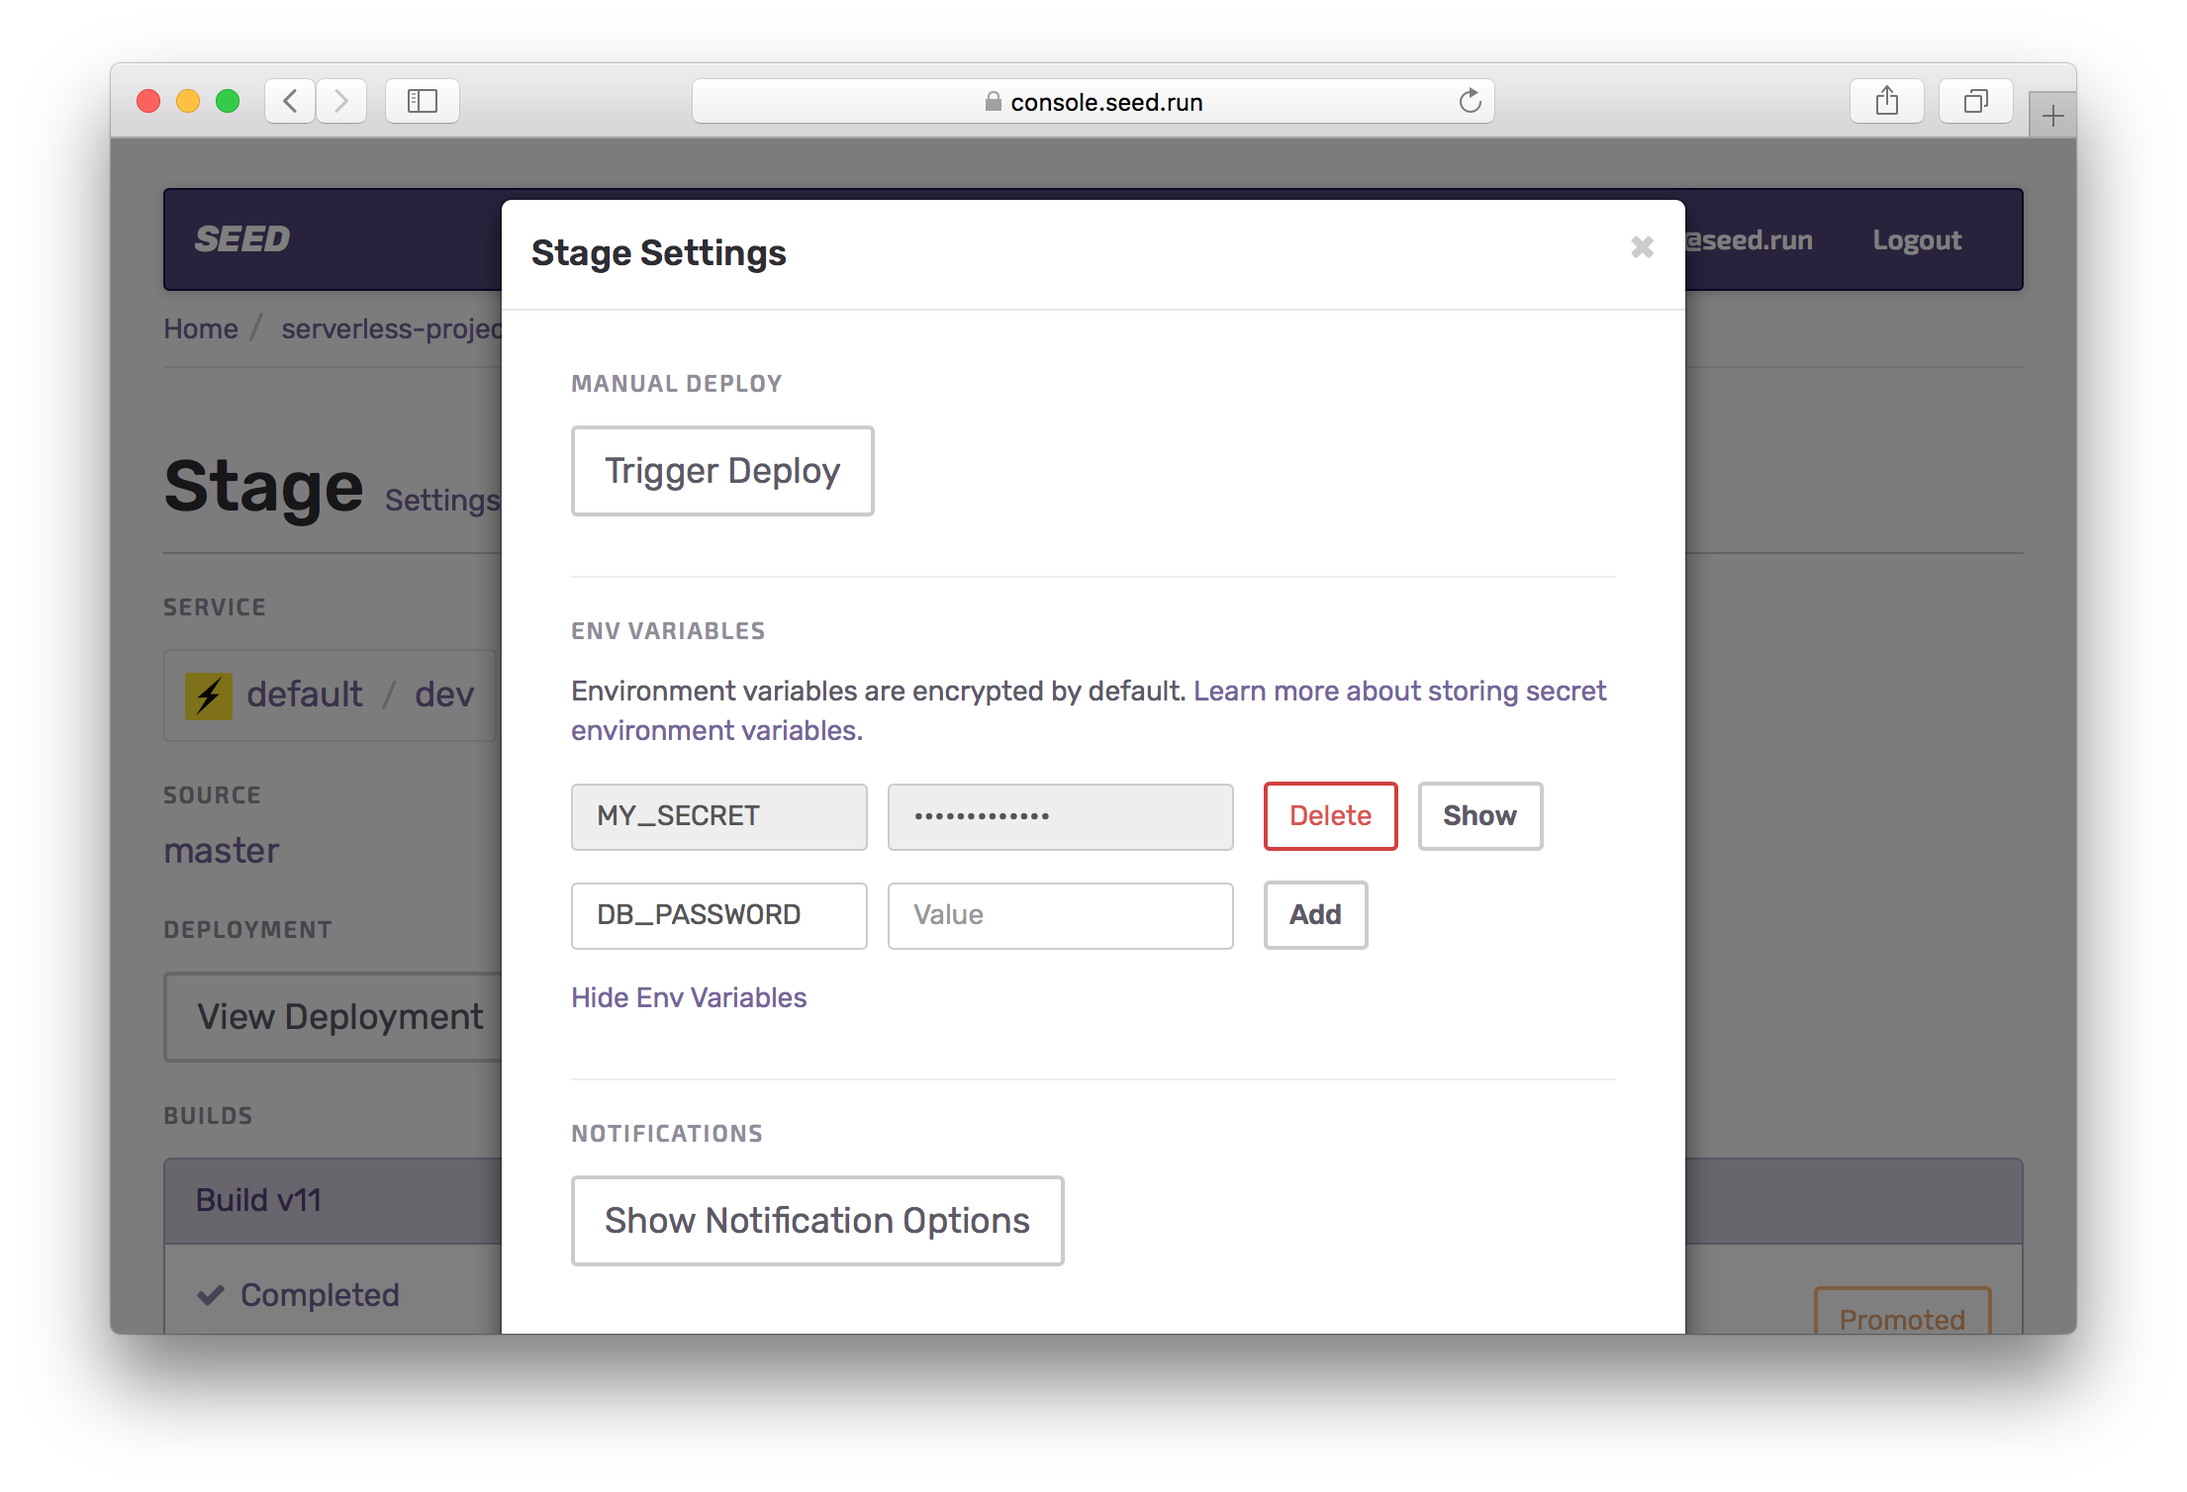
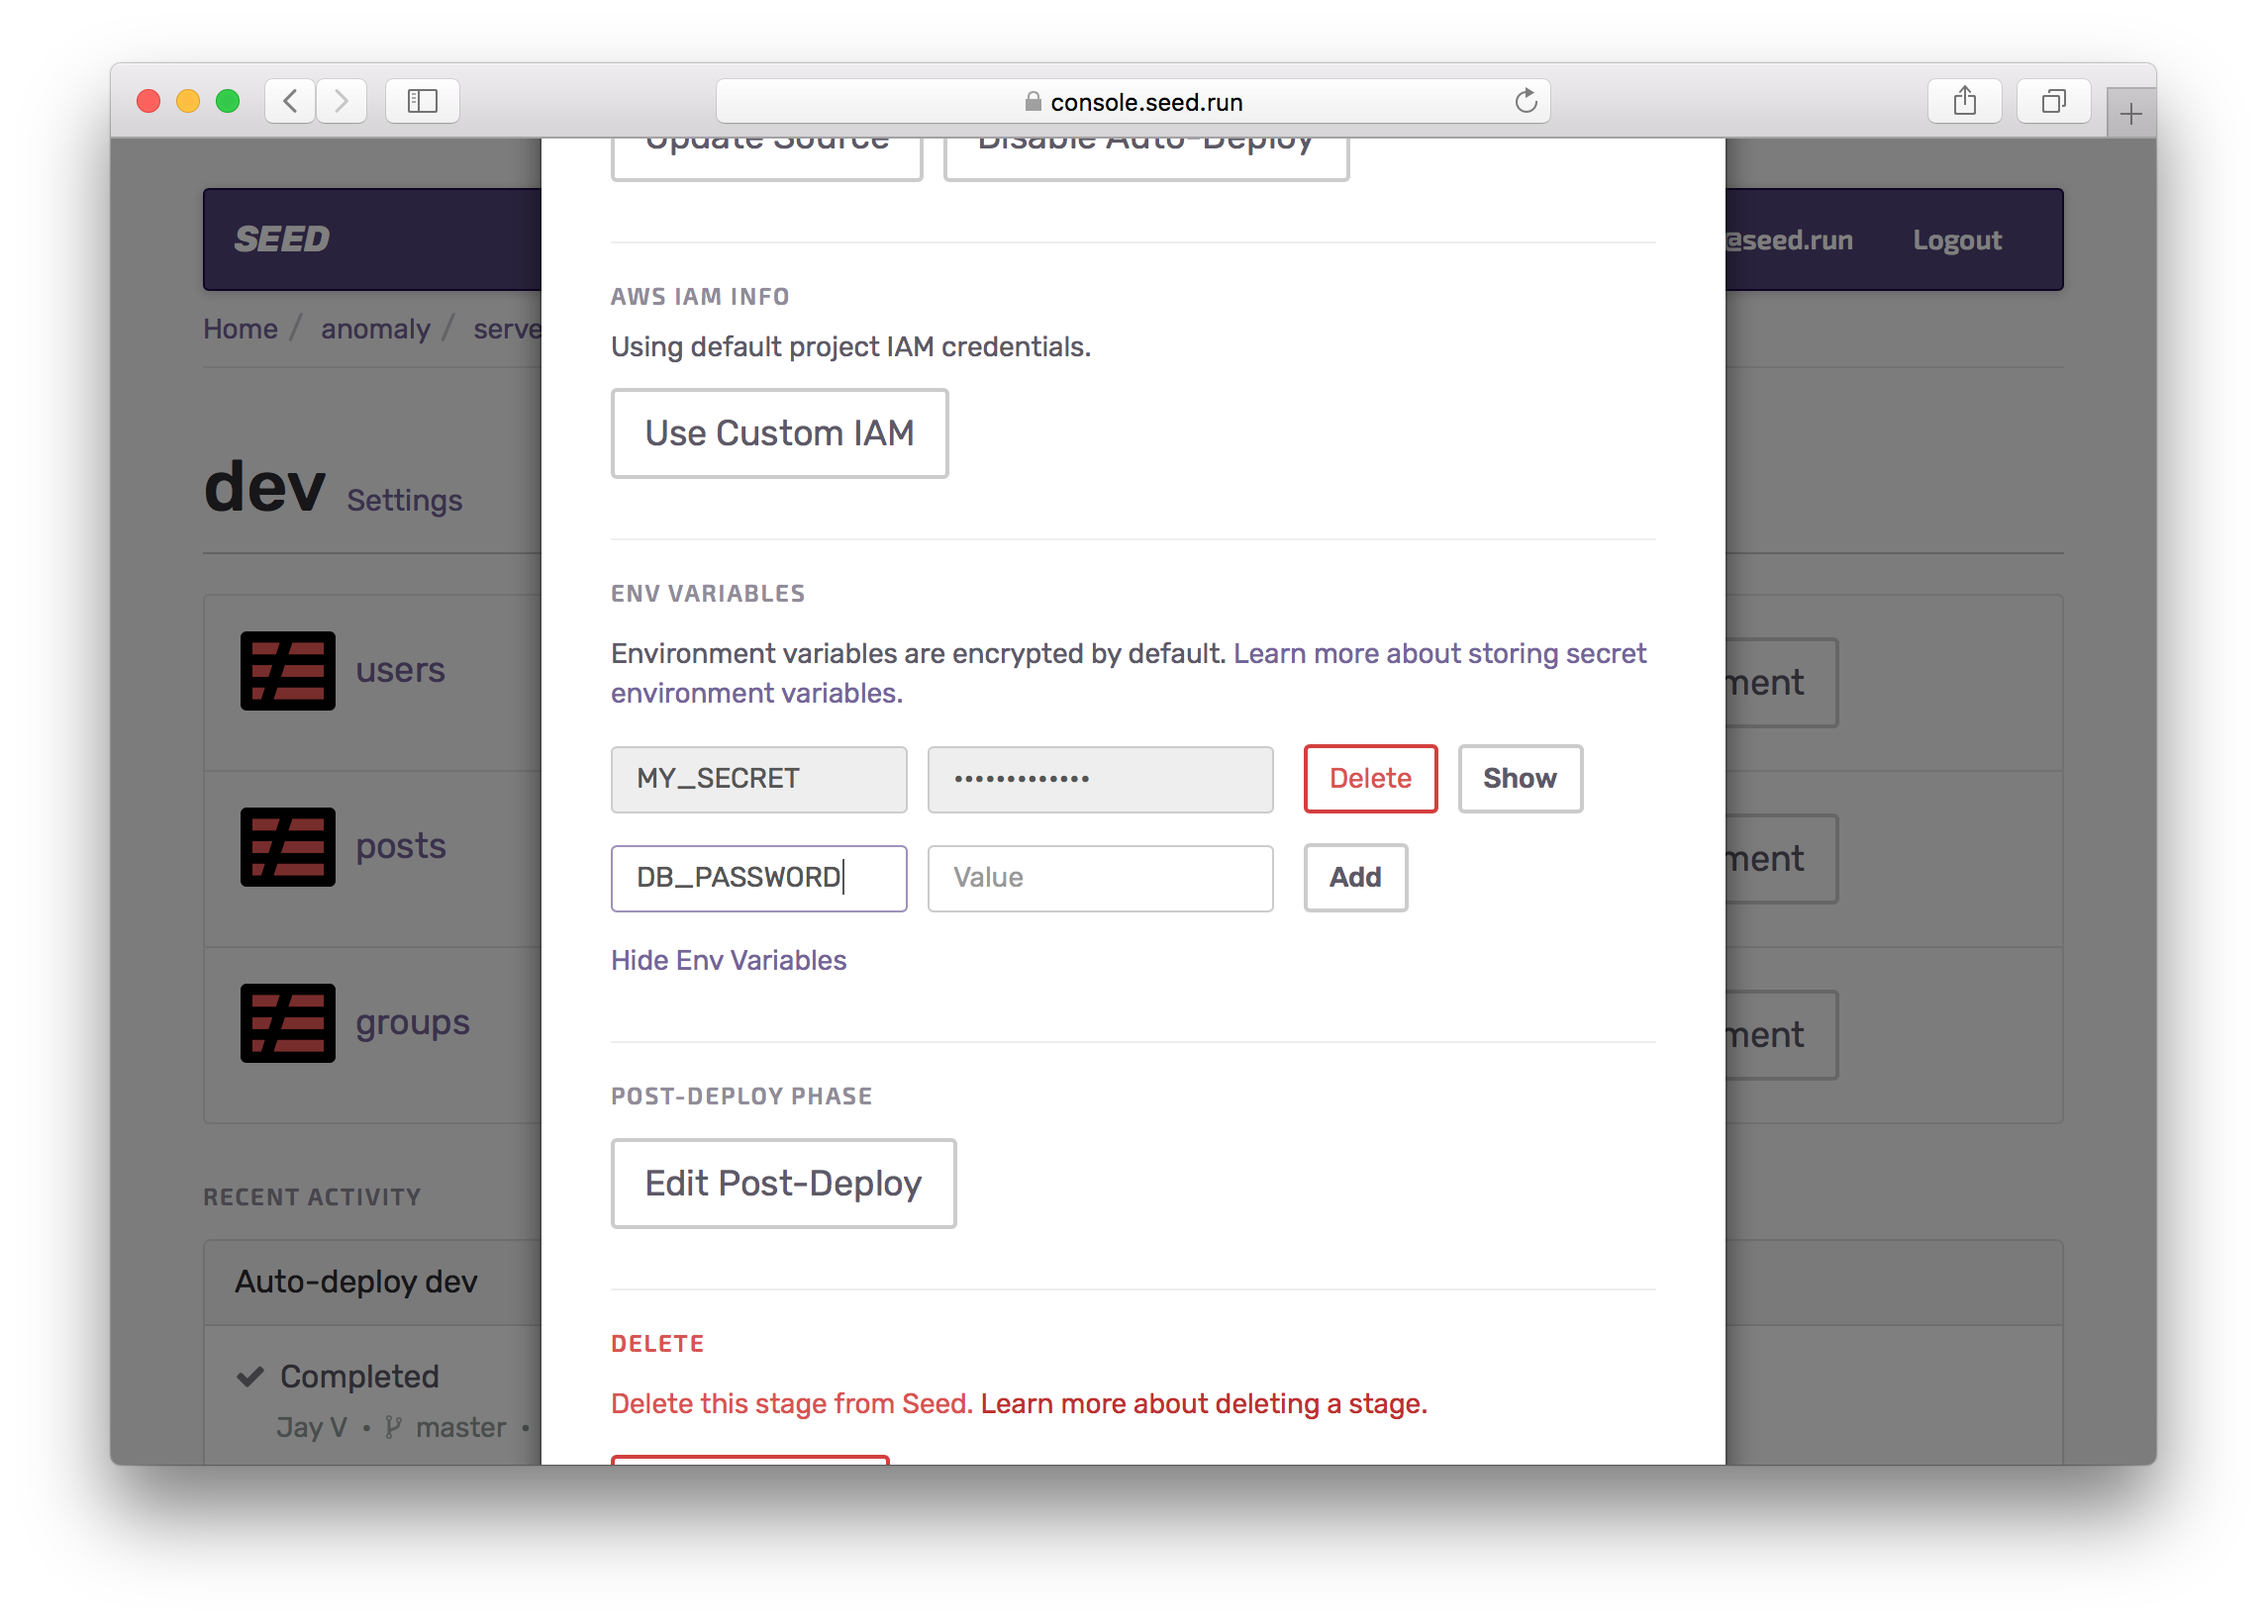
- Add blog post on post deploy phase - Add blog post on stage variables - Update docs for stage variables

Changed region(s): [[0.0312, 0.0312, 0.9679, 0.9038], [0.8118, 0.8727, 0.9679, 0.9038], [0.4059, 0.5922, 0.4683, 0.6233]]

diff --git a/_posts/2018-11-29-running-integration-tests.md b/_posts/2018-11-29-running-integration-tests.md
@@ -1,0 +1,24 @@
+---
+layout: post
+title: Running Integration Tests
+image: /assets/social-cards/post-deploy-phase.png
+author: frank
+---
+
+As we continue to provide better support for [Serverless Framework](https://serverless.com) applications with multiple services, we are rolling out the ability to add a post-deploy phase to your deployment workflow.
+
+![Post Deploy Phase](/assets/blog/running-integration-tests/post-deploy-phase.png)
+
+To give a little context; Seed allows you to configure the CI/CD workflow for your mono-repo Serverless apps by letting you set up [Deploy Phases]({% link _docs/configuring-deploy-phases.md %}). It is very usually the case that you want to run integration tests or other post-deployment scripts after all your services are deployed. This is pretty easy to configure in Travis or Circle if you have a single service in your application. However, for applications with multiple services it can be tricky to configure and manage the workflow.
+
+### Add a Post-Deploy Phase
+
+Enter the concept of [Post-Deploy Phases]({% link _docs/adding-a-post-deploy-phase.md %}). You can now configure a post-deploy phase in your deployment workflow where you can add the tests (or any other scripts) that you'd like to run.
+
+![Enable a Post-Deploy Phase](/assets/blog/running-integration-tests/enable-a-post-deploy-phase.png)
+
+We give you the flexibility to configure a post-deploy phase on a per stage basis. This allows you to customize the type of scripts you want to run, in say dev vs prod.
+
+Post-deploy phases are just another way Seed is making it ridiculously simple to manage deployments for your Serverless applications.
+
+You can read further about [adding a post-deploy phase in our docs]({% link _docs/adding-a-post-deploy-phase.md %}).

diff --git a/_docs/storing-secrets.md b/_docs/storing-secrets.md
@@ -11,13 +11,9 @@ When you first create a Seed project, an encryption key is generated and stored 
 
 You can then access them in your Node.js Lambda functions using the `process.env` object.
 
-To add a secret, select the service you want to add it to.
+To add a secret, select the stage you are trying to set it for.
 
-![Select service](/assets/docs/storing-secrets/select-service.png)
-
-Then select the stage.
-
-![Select service stage](/assets/docs/storing-secrets/select-service-stage.png)
+![Select stage](/assets/docs/storing-secrets/select-stage.png)
 
 And hit **Settings**.
 
@@ -31,13 +27,15 @@ Enter the **Key** and **Value** for the new secret, and click **Add**.
 
 ![Create Secret Variable](/assets/docs/storing-secrets/create-secret-variable.png)
 
-Note that the newly created secrets will take effect only after the next deployment to this stage.
+Note that the newly created secrets will take effect only after the next deployment to this stage. And these secrets will be available to all the services in your application.
 
 Secret variables take precedence over the [other stage variables](% link _docs/configuring-stage-variables.md %}) defined in `serverless.yml`. If you were to define a secret variable, and the same variable is defined in the yaml file; the value defined in `serverless.yml` is overridden.
 
 > Secrets take precedence over other environment variables
 
 This is useful when you are developing on your local where your Lambda functions are not going to have access to the secrets from the Seed console.
+
+> Secrets are available in your build process
 
 For example, we just created a secret variable **DB_PASSWORD** for the **production** stage. The same variable is also defined in the `serverless.yml`.
 

diff --git a/_docs/adding-a-post-deploy-phase.md b/_docs/adding-a-post-deploy-phase.md
@@ -5,11 +5,11 @@ title: Adding a Post-Deploy Phase
 
 With mono-repo deployments, you often want to run your integration tests after all your services have been deployed. To do this, Seed allows you to configure a post-deploy phase. A post-deploy phase can include a set of commands that you want to run after all your services have been successfully deployed.
 
-> Seed can run your integration tests as a part of the post-deploy phase.
+> Seed can run your integration tests as a part of the post-deploy phase
 
 A post-deploy phase can also be used to run any database migration scripts or any other post-deployment scripts. Post-deploy phases are configured on a per stage basis. This means that you can customize what you want to run, in say production vs your dev stage.
 
-> Post-deploy phases are configured on a per stage basis.
+> Post-deploy phases are configured on a per stage basis
 
 To configure a post-deploy phase, head over to the settings for the stage you are looking to set it for. And hit **Enable Post-Deploy**.
 

diff --git a/_posts/2018-11-28-stage-environment-variables.md b/_posts/2018-11-28-stage-environment-variables.md
@@ -1,0 +1,13 @@
+---
+layout: post
+title: Stage Environment Variables
+author: jack
+---
+
+We recently rolled out a simple but highly requested feature; the ability to configure environment variables across all your services.
+
+Previously, you had to configure environment variables for each and every service in a stage. For some of us that have Serverless applications that contains dozens of services, this can be a major hassle.
+
+We've now made it so that you can simply set your secrets or environment variables for a stage and they will be applied to all the services in that stage.
+
+You can read more about [storing secrets in our docs]({% link _docs/storing-secrets.md %}). 
